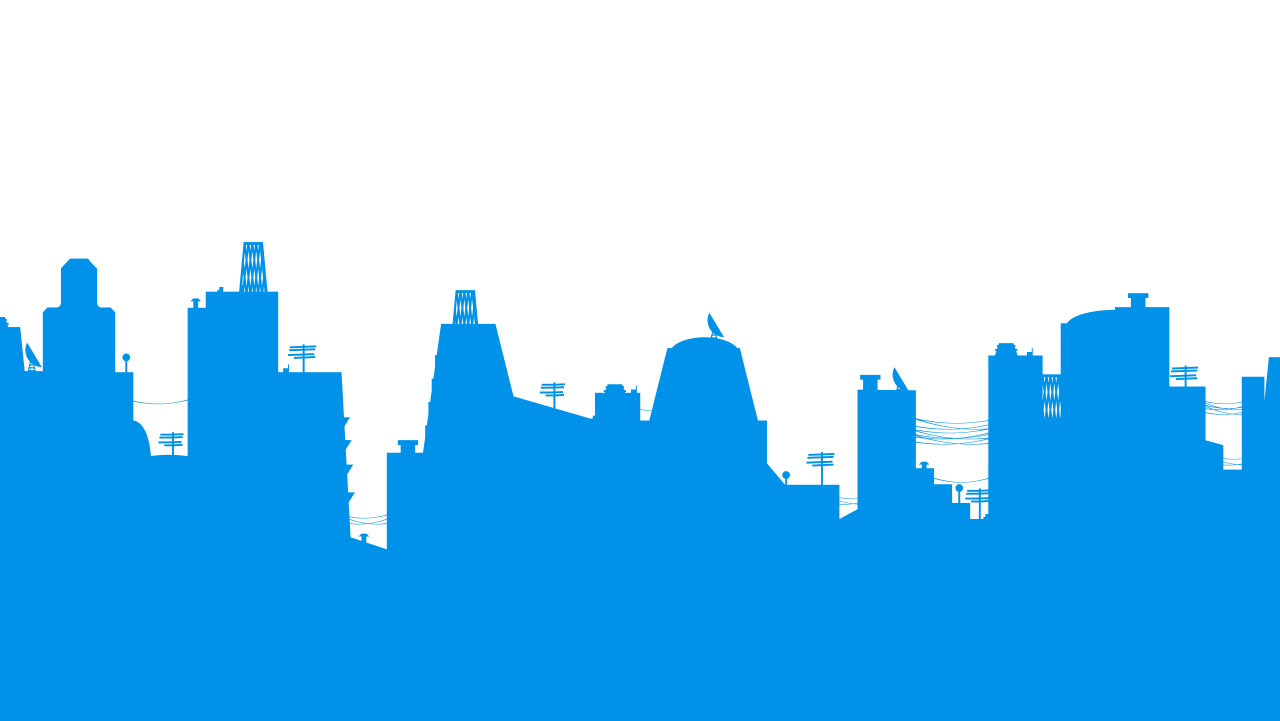
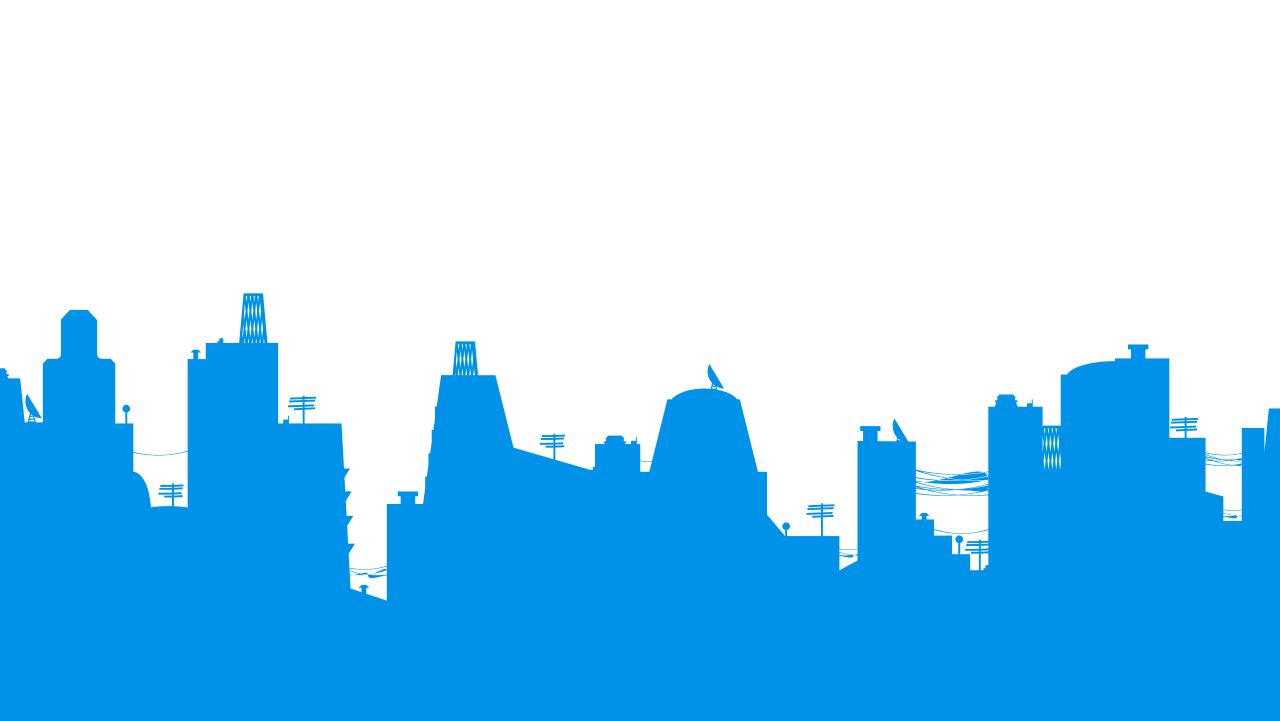
Better handling for mobile

Changed region(s): [[0.125, 0.3356, 0.6875, 0.8239], [0.6562, 0.3967, 1.0, 0.7933], [0.0, 0.3662, 0.1562, 0.7018]]

diff --git a/js/interface.js b/js/interface.js
@@ -57,32 +57,42 @@ function init() {
 }
 
 window.onload = init;
+window.addEventListener('resize', update_scroll)
+window.addEventListener('scroll', update_scroll)
 
-window.addEventListener('scroll', function (event) {
+function update_scroll (event) {
   var depth, i, layer, layers, len, movement, topDistance, translate3d;
   updateCGSLogo()
   topDistance = this.pageYOffset
   layers = document.querySelectorAll("[data-type='parallax']")
   var parallax_id = document.getElementById('parallax')
+  var parallax_mobile_id = document.getElementById('parallax-mobile')
 
-  if (topDistance > 1080) {
-    parallax_id.style.display = 'hidden';
+  if (window.innerWidth < 800) {
+    parallax_id.style.display = 'none';
+    parallax_mobile_id.style.display = 'block';
   } else {
-    parallax_id.style.display = 'block';
-  }
+     parallax_mobile_id.style.display = 'none';
 
-  for (i = 0, len = layers.length; i < len; i++) {
-    layer = layers[i];
-    depth = layer.getAttribute('data-depth')
-    movement = -(topDistance * depth)
-    translate3d = 'translate3d(0, ' + movement + 'px, 0)'
-    layer.style['-webkit-transform'] = translate3d
-    layer.style['-moz-transform'] = translate3d
-    layer.style['-ms-transform'] = translate3d
-    layer.style['-o-transform'] = translate3d
-    layer.style.transform = translate3d
+    if (topDistance > 1080) {
+      parallax_id.style.display = 'none';
+    } else {
+      parallax_id.style.display = 'block';
+    }
+
+    for (i = 0, len = layers.length; i < len; i++) {
+      layer = layers[i];
+      depth = layer.getAttribute('data-depth')
+      movement = -(topDistance * depth)
+      translate3d = 'translate3d(0, ' + movement + 'px, 0)'
+      layer.style['-webkit-transform'] = translate3d
+      layer.style['-moz-transform'] = translate3d
+      layer.style['-ms-transform'] = translate3d
+      layer.style['-o-transform'] = translate3d
+      layer.style.transform = translate3d
+    }
   }
-})
+}
 
 function validateEmail(email) {
   return /^(?:[a-z0-9!#$%&'*+/=?^_`{|}~-]+(?:\.[a-z0-9!#$%&'*+/=?^_`{|}~-]+)*|"(?:[\x01-\x08\x0b\x0c\x0e-\x1f\x21\x23-\x5b\x5d-\x7f]|\\[\x01-\x09\x0b\x0c\x0e-\x7f])*")@(?:(?:[a-z0-9](?:[a-z0-9-]*[a-z0-9])?\.)+[a-z0-9](?:[a-z0-9-]*[a-z0-9])?|\[(?:(?:25[0-5]|2[0-4][0-9]|[01]?[0-9][0-9]?)\.){3}(?:25[0-5]|2[0-4][0-9]|[01]?[0-9][0-9]?|[a-z0-9-]*[a-z0-9]:(?:[\x01-\x08\x0b\x0c\x0e-\x1f\x21-\x5a\x53-\x7f]|\\[\x01-\x09\x0b\x0c\x0e-\x7f])+)\])$/.test(email)
